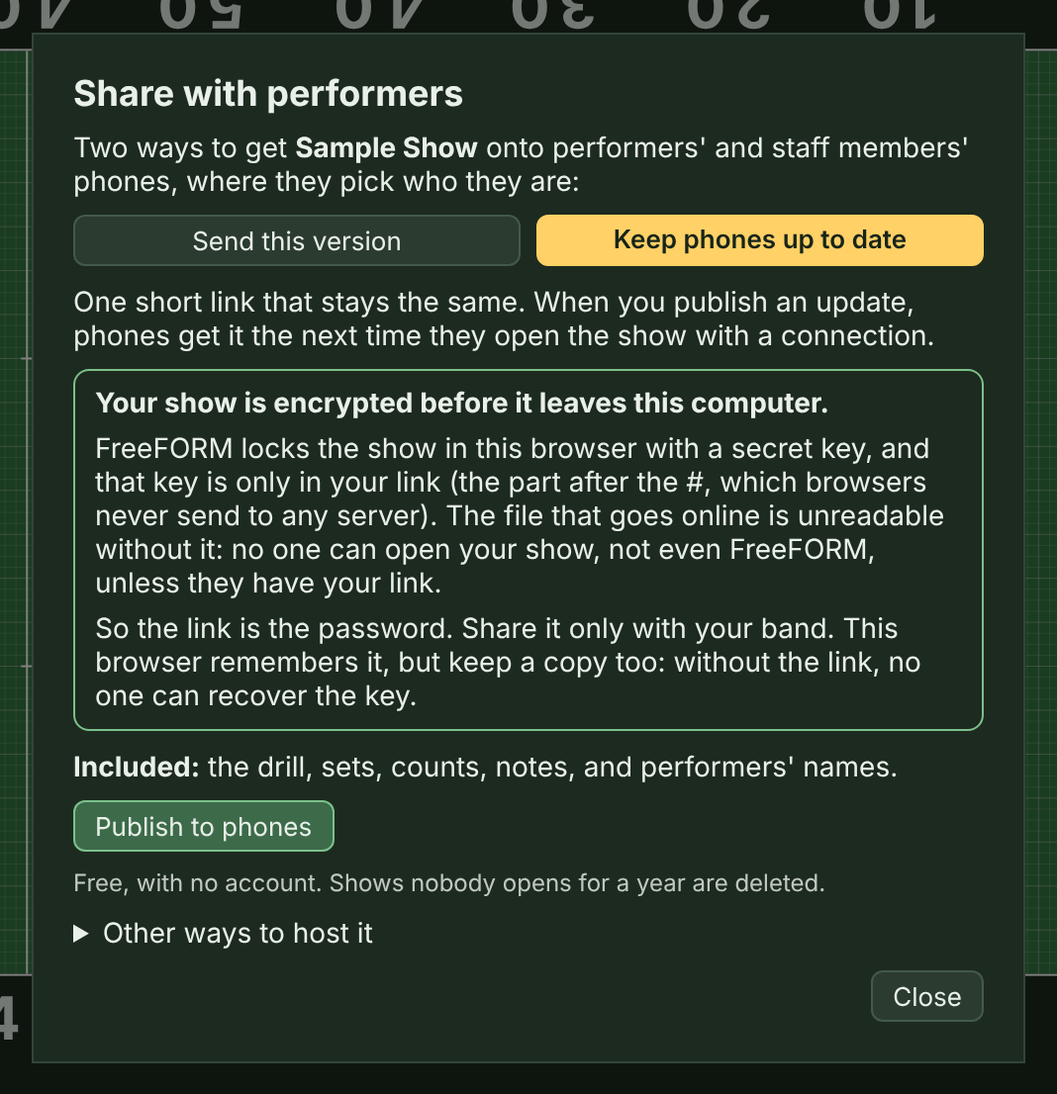
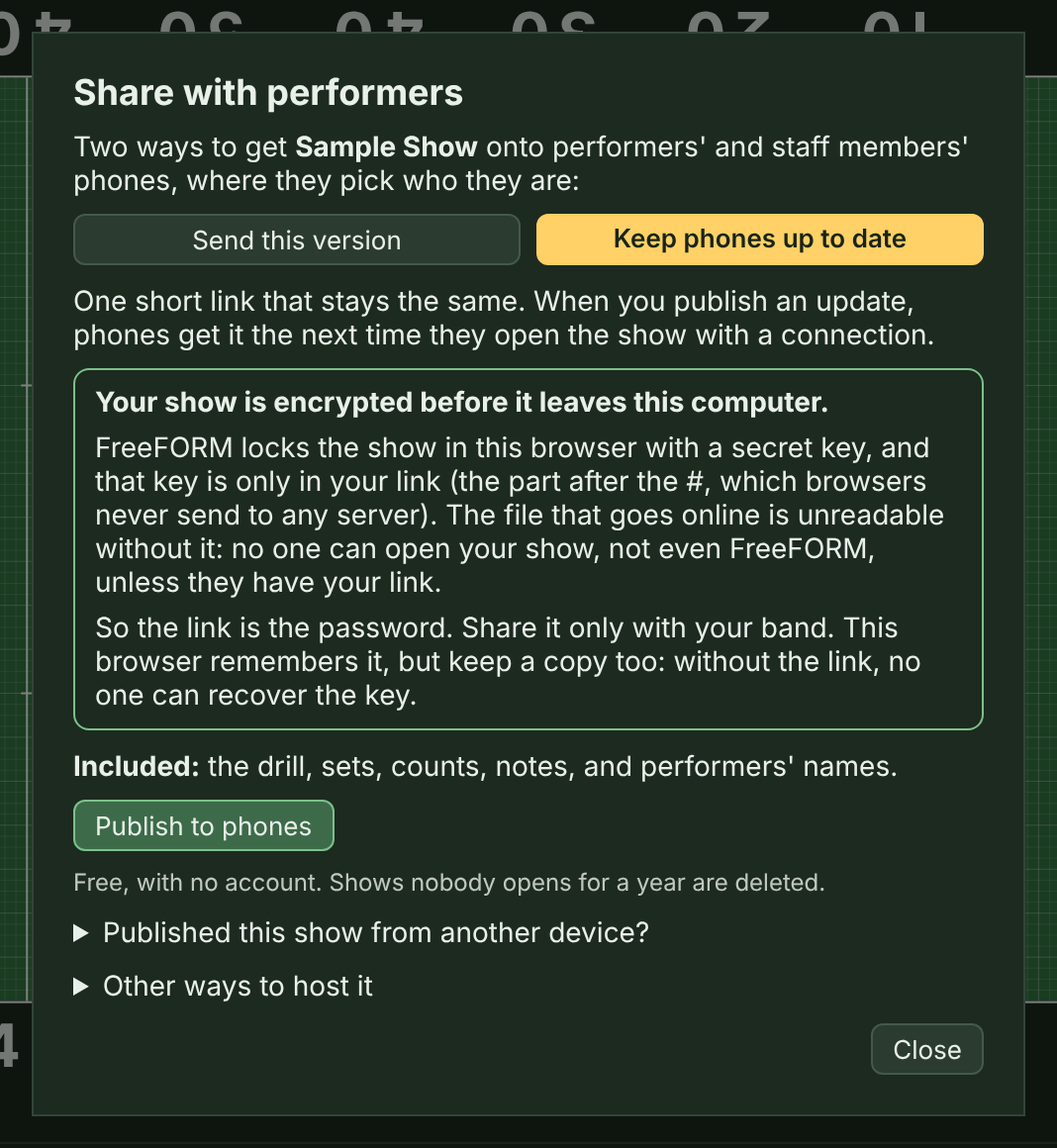
Recovery codes carry their own steps; open one from a blank field
The copied code is now a short message with the steps above it, and
"Email it to yourself" sends it, so a director weeks later knows what
to do. The blank field's start note gets an "Open from a link or
recovery code…" button (Jason's wording), and the publishing code is
called a recovery code everywhere a person sees it. Old codes still work.

Claude-Session: https://claude.ai/code/session_012ak5ZVHEpD9G47FepvLhFK

diff --git a/src/perform/ShareDialog.tsx b/src/perform/ShareDialog.tsx
@@ -6,7 +6,7 @@ import { synced } from '../engine/music';
 import { getAudio } from '../ui/audioStore';
 import { useDialog } from '../ui/useDialog';
 import { checkRepo, fileNameFor, publishFile, REPO_RE, type GitHubTarget } from '../engine/github';
-import { cloudUrl, publishCloud, publishingCode, readPublishingCode, unpublishCloud, type CloudShow } from '../engine/cloud';
+import { cloudUrl, publishCloud, publishingMessage, readPublishingCode, unpublishCloud, type CloudShow } from '../engine/cloud';
 import { getPublishing, loadCloud, loadLinks, saveCloud, saveLink, setPublishing } from '../ui/publishing';
 
 // The director's GitHub repository and token for one-click publishing, kept only in this browser.
@@ -104,15 +104,16 @@ export function ShareDialog({ show, onClose, setRevision }: { show: Show; onClos
         : `Published revision ${s.revision}, ${at}. Phones that already have the show get this version the next time they open it (within a minute or so).`);
     } catch (e) { setBusy(`✗ ${e instanceof Error ? e.message : String(e)}`); }
   };
-  // Moving to another device: the publishing code carries the link and the edit token (Full backup carries them too).
+  // Moving to another device: the recovery code carries the link and the edit token (Full backup carries them too).
   const [code, setCode] = useState('');
   const takeCode = () => {
     const p = readPublishingCode(code);
-    if (!p) { setBusy("✗ That isn't a FreeFORM publishing code. Copy the whole code from the other device."); return; }
+    if (!p) { setBusy("✗ That isn't a FreeFORM recovery code. Copy the whole code from the other device."); return; }
     if (p.show?.id && p.show.id !== show.id && !confirm(`This code is for "${p.show.title || 'another show'}", and the show open here is "${show.title}". Publishing here would replace that show on phones with this one. Use it anyway?`)) return;
     setPublishing(sid, p); setCloud(p.cloud ?? null); setField(p.link); setMadeKey(null); saveKey(null); setCode('');
     setBusy(p.cloud ? 'Done: this browser can now update that link. Click Publish update after your edits.' : 'Done: this browser has the link. To update it, publish the file where it was hosted before.');
   };
+  const codeMessage = onService && cloud && hosted ? publishingMessage(getPublishing(sid, show.title) ?? { link: hosted, cloud }, show.title) : '';
   const stopSharing = async () => {
     if (!cloud || !confirm('Take this show off FreeFORM’s service? The link stops working. Phones that already have the show keep the copy they have, but get no more updates.')) return;
     setBusy('Taking it offline…');
@@ -200,22 +201,26 @@ export function ShareDialog({ show, onClose, setRevision }: { show: Show; onClos
             <details style={{ margin: '10px 0 0' }}>
               <summary>Use on another device</summary>
               <p style={small}>
-                Got a new computer or iPad? This code lets it keep updating this same link, so students don't need a new one. Copy it
-                (email it to yourself, say), then on the new device open this show from a Full backup or with <strong>Shows… → Open from a link</strong>, and
-                paste the code there. <strong>Keep it private:</strong> like the link, it's a password, and it can also change the show.
-                A <strong>Full backup</strong> file carries it too.
+                Got a new computer or iPad? This code lets it keep updating this same link, so students don't need a new one. Email it to
+                yourself, or copy it somewhere safe: the instructions travel with it. On the new device, click <strong>Open from a link or recovery code…</strong>
+                (on a blank field, or under <strong>Shows…</strong>) and paste the whole message. <strong>Keep it private:</strong> like the link, it's a
+                password, and it can also change the show. A <strong>Full backup</strong> file carries it too.
               </p>
-              <textarea aria-label="Publishing code" readOnly rows={3} value={publishingCode(getPublishing(sid, show.title) ?? { link: hosted, cloud })} onFocus={(e) => e.currentTarget.select()}
+              <textarea aria-label="Recovery code" readOnly rows={5} value={codeMessage} onFocus={(e) => e.currentTarget.select()}
                 style={{ width: '100%', boxSizing: 'border-box', font: 'inherit', fontSize: 11 }} />
-              <div style={{ display: 'flex', justifyContent: 'flex-end' }}><button onClick={() => copy(publishingCode(getPublishing(sid, show.title) ?? { link: hosted, cloud }))}>Copy publishing code</button></div>
+              <div style={{ display: 'flex', justifyContent: 'flex-end', gap: 8, flexWrap: 'wrap' }}>
+                <a className="button-link" href={`mailto:?subject=${encodeURIComponent(`FreeFORM recovery code: ${show.title || 'Untitled show'}`)}&body=${encodeURIComponent(codeMessage)}`}
+                  style={{ color: 'var(--blue)', alignSelf: 'center' }}>Email it to yourself</a>
+                <button onClick={() => copy(codeMessage)}>Copy recovery code</button>
+              </div>
             </details>
           )}
           {!onService && (
             <details style={{ margin: '10px 0 0' }}>
               <summary>Published this show from another device?</summary>
-              <p style={small}>Paste the publishing code from that device (under <strong>Use on another device</strong> there), and this browser can update the same link.</p>
+              <p style={small}>Paste the recovery code from that device (under <strong>Use on another device</strong> there), and this browser can update the same link.</p>
               <div style={{ display: 'flex', gap: 6 }}>
-                <input aria-label="Paste a publishing code" placeholder="FREEFORM-PUBLISHING-1.…" value={code} onChange={(e) => setCode(e.target.value)} style={{ flex: 1, font: 'inherit', fontSize: 12 }} />
+                <input aria-label="Paste a recovery code" placeholder="FREEFORM-PUBLISHING-1.…" value={code} onChange={(e) => setCode(e.target.value)} style={{ flex: 1, font: 'inherit', fontSize: 12 }} />
                 <button disabled={!code.trim()} onClick={takeCode}>Use code</button>
               </div>
             </details>

diff --git a/src/App.tsx b/src/App.tsx
@@ -813,18 +813,18 @@ export function App() {
   const trySample = async () => { await flush(); openShow({ ...sampleShow(), id: newShowId() }); setTool('select'); }; // in the main bundle: the offline cache only keeps files the page links
   // The front page's "Try the sample show" opens app/?sample.
   useEffect(() => { if (new URLSearchParams(location.search).has('sample')) { history.replaceState(null, '', location.pathname + location.hash); trySample(); } }, []); // eslint-disable-line react-hooks/exhaustive-deps
-  const [library, setLibrary] = useState(false);
+  const [library, setLibrary] = useState<boolean | 'link'>(false); // 'link': opened on Open from a link
   const [video, setVideo] = useState(false); // the Make a video dialog
   const [feedback, setFeedback] = useState(false); // the Send feedback form
   const act: ShowActions = {
     flush,
     fresh: () => fresh().then(() => setLibrary(false)),
     open: async (id) => { const s = await loadShow(id); await flush(); openShow(s); setLibrary(false); },
-    // Open a show from a phone link or a publishing code: recovers the drill (the link holds the key that unlocks it), and
-    // with a publishing code, keeps updating the same link from here.
+    // Open a show from a phone link or a recovery code: recovers the drill (the link holds the key that unlocks it), and
+    // with a recovery code, keeps updating the same link from here.
     openLink: async (text) => {
       const code = readPublishingCode(text), hash = code ? code.link.slice(code.link.indexOf('#')) : linkHash(text);
-      if (!hash) throw new Error("That isn't a FreeFORM link or publishing code. Paste the whole link students open, or the publishing code.");
+      if (!hash) throw new Error("That isn't a FreeFORM link or recovery code. Paste the whole link students open, or the recovery code.");
       const got = hash.startsWith(SHARE_PREFIX) ? { show: await decodeShow(hash.slice(SHARE_PREFIX.length)), audio: undefined } : await fetchHosted(hash);
       let s = got.show;
       await flush();
@@ -835,7 +835,7 @@ export function App() {
       openShow(s); setLibrary(false);
       setNotice({ t: 0, text: code ? `Opened "${s.title}". This browser can keep updating the same link: Share…, then Publish update.`
         : hash.startsWith(SHARE_PREFIX) ? `Opened "${s.title}" from a share link. Performers' names aren't in share links, so add them again in Roster.`
-        : `Opened "${s.title}". To keep updating the same link from here, paste the publishing code from the device that published it (Share…, Keep phones up to date). Publishing without it makes a new link.` }); // over the field, where the show just opened
+        : `Opened "${s.title}". To keep updating the same link from here, paste the recovery code from the device that published it (Share…, Keep phones up to date). Publishing without it makes a new link.` }); // over the field, where the show just opened
     },
     rename: async (id, title) => {
       if (id === show.id) { setShow((s) => ({ ...s, title })); await keepShow({ ...show, title }); }
@@ -941,10 +941,11 @@ export function App() {
         />
         {show.performers.length === 0 && !otherTab && (
           <div className="backup-note" role="group" aria-label="Start a show">
-            <span><strong>Start your show.</strong> Place performers on the field, bring in a roster from Excel, or look around a finished sample first.</span>
+            <span><strong>Start your show.</strong> Place performers on the field, bring in a roster from Excel, or look around a finished sample first. On a new computer? Open your show from its phone link or recovery code.</span>
             <button className="primary" onClick={() => { setTool('add'); setOpenAdd((n) => n + 1); }}>Place performers</button>
             <button onClick={() => setRoster(true)}>Import a roster…</button>
             <button onClick={trySample}>Try the sample show</button>
+            <button onClick={() => setLibrary('link')} title="Open a show from the link students use, or from a recovery code from your other computer">Open from a link or recovery code…</button>
           </div>
         )}
         {otherTab && (
@@ -1002,7 +1003,7 @@ export function App() {
       </div>
       {sharing && <ShareDialog show={show} onClose={() => setSharing(false)} setRevision={(n) => setShow((s) => ({ ...s, revision: n }))} />}
       {roster && <RosterImport show={show} setShow={setShow} onClose={() => setRoster(false)} />}
-      {library && <ShowsDialog show={show} act={act} onClose={() => setLibrary(false)} />}
+      {library && <ShowsDialog show={show} act={act} linkFirst={library === 'link'} onClose={() => setLibrary(false)} />}
       {feedback && <FeedbackDialog onClose={() => setFeedback(false)} />}
       {video && <VideoDialog show={show} bpm={bpm} onClose={() => setVideo(false)} />}
       {printing && <PrintDialog show={show} selected={selected} onClose={() => setPrinting(false)} />}

diff --git a/src/ui/Shows.tsx b/src/ui/Shows.tsx
@@ -7,7 +7,7 @@ import { listShows, listVersions, type Entry, type Listed } from './showStore';
 /** What the dialog asks the editor to do; each returns once it's done, so the list can be read again. */
 export interface ShowActions {
   open: (id: string) => Promise<void>;
-  openLink: (text: string) => Promise<void>; // a phone link or a publishing code
+  openLink: (text: string) => Promise<void>; // a phone link or a recovery code
   fresh: () => Promise<void>;
   rename: (id: string, title: string) => Promise<void>;
   duplicate: (id: string) => Promise<void>;
@@ -21,11 +21,11 @@ const size = (e: { performers: number; sets: number }) => `${e.performers} perfo
 const rowStyle: React.CSSProperties = { display: 'flex', gap: 8, alignItems: 'center', padding: '8px 0', borderTop: '1px solid var(--line)' };
 
 /** The shows kept in this browser (open, start, copy, rename, delete) and the open show's earlier versions. */
-export function ShowsDialog({ show, act, onClose }: { show: Show; act: ShowActions; onClose: () => void }) {
+export function ShowsDialog({ show, act, onClose, linkFirst = false }: { show: Show; act: ShowActions; onClose: () => void; linkFirst?: boolean }) {
   const [shows, setShows] = useState<Listed[] | null>(null);
   const [versions, setVersions] = useState<Entry[] | null>(null); // the versions view, when open
   const [error, setError] = useState('');
-  const [link, setLink] = useState<string | null>(null); // Open from a link: the box's text, while it's open
+  const [link, setLink] = useState<string | null>(linkFirst ? '' : null); // Open from a link or recovery code: the box's text, while it's open
   const list = () => listShows().then(setShows, () => { setShows([]); setError("This browser wouldn't read its saved shows (its storage may be turned off)."); });
   // The open show goes into the library first, so the list is current. Only here: right after an action the editor may not have caught up.
   useEffect(() => { act.flush().then(list); }, [show.id]); // eslint-disable-line react-hooks/exhaustive-deps
@@ -59,17 +59,17 @@ export function ShowsDialog({ show, act, onClose }: { show: Show; act: ShowActio
           {link !== null && (
             <div style={{ ...rowStyle, flexWrap: 'wrap' }}>
               <p style={{ margin: 0, fontSize: 13, width: '100%' }}>
-                Paste a link students open (a share link or a <strong>Keep phones up to date</strong> link), or a publishing code from another device.
-                The show opens here as a show of its own. With a publishing code, this browser can keep updating the same link.
+                Paste a link students open (a share link or a <strong>Keep phones up to date</strong> link), or a recovery code from another device.
+                The show opens here as a show of its own. With a recovery code, this browser can keep updating the same link.
               </p>
-              <input aria-label="Link or publishing code" autoFocus value={link} onChange={(e) => setLink(e.target.value)} placeholder="https://freeformdrill.org/app/#load=… or FREEFORM-PUBLISHING-1.…" style={{ flex: 1, minWidth: 200 }} />
+              <input aria-label="Link or recovery code" autoFocus value={link} onChange={(e) => setLink(e.target.value)} placeholder="https://freeformdrill.org/app/#load=… or FREEFORM-PUBLISHING-1.…" style={{ flex: 1, minWidth: 200 }} />
               <button className="primary" disabled={!link.trim()} onClick={() => { setError(''); act.openLink(link).catch((e) => setError(e instanceof Error ? e.message : String(e))); }}>Open</button>
               <button onClick={() => setLink(null)}>Cancel</button>
             </div>
           )}
           <div style={{ display: 'flex', gap: 8, marginTop: 12, flexWrap: 'wrap' }}>
             <button onClick={doing(act.fresh)}>New show</button>
-            <button onClick={() => setLink('')} title="Open a show from a link students use, or from a publishing code (a new computer)">Open from a link…</button>
+            <button onClick={() => setLink('')} title="Open a show from a link students use, or from a recovery code (a new computer)">Open from a link or recovery code…</button>
             <button onClick={showVersions} title="Earlier copies of the open show, kept as you work">Versions of "{show.title || 'Untitled show'}"…</button>
             <span style={{ flex: 1 }} />
             <button className="primary" onClick={onClose}>Close</button>

diff --git a/src/engine/cloud.ts b/src/engine/cloud.ts
@@ -42,7 +42,7 @@ export async function unpublishCloud(c: CloudShow, fetcher: typeof fetch = fetch
 
 /**
  * Everything a browser needs to keep publishing a show to the same link: the link (with its key) and, for a show on
- * FreeFORM's service, its id and edit token. Carried by Full backup files and by a publishing code, so a director who
+ * FreeFORM's service, its id and edit token. Carried by Full backup files and by a recovery code, so a director who
  * moves to a new computer mid-season keeps the link students already have. Like the link, it's a password.
  */
 export interface Publishing { link: string; cloud?: CloudShow; show?: { id?: string; title?: string } }
@@ -63,10 +63,24 @@ export function readPublishing(x: unknown): Publishing | null {
   return { link: p.link, ...(cloud ? { cloud } : {}), ...(show ? { show } : {}) };
 }
 
-/** The publishing code to copy to another device. */
+/** The recovery code to copy to another device. */
 export const publishingCode = (p: Publishing) => PREFIX + b64url(JSON.stringify(p));
 
-/** A pasted publishing code (spaces and line breaks from an email are fine), or null if it isn't one. */
+/**
+ * The code wrapped in its own instructions, for the clipboard or an email: whoever finds it later (weeks later, on a new
+ * device) knows what to do with it. Pasting the whole message works: readPublishingCode finds the code inside.
+ */
+export const publishingMessage = (p: Publishing, title: string) => [
+  `FreeFORM recovery code for "${title || 'Untitled show'}"`,
+  '',
+  'To keep updating the same phone link from a new computer or iPad: open https://freeformdrill.org/app/, click Open from a link or recovery code… (on a blank field, or under Shows…), and paste this whole message. The show opens, and Publish update keeps the link your students already have.',
+  '',
+  'Keep this private: like the show’s link, it’s a password, and it can also change the show on your students’ phones.',
+  '',
+  publishingCode(p),
+].join('\n');
+
+/** A pasted recovery code (spaces and line breaks from an email are fine), or null if it isn't one. */
 export function readPublishingCode(text: string): Publishing | null {
   const m = text.replace(/\s+/g, '').match(/FREEFORM-PUBLISHING-1\.([A-Za-z0-9_-]+)/);
   if (!m) return null;

diff --git a/src/engine/cloud.test.ts b/src/engine/cloud.test.ts
@@ -49,14 +49,17 @@ describe('publishing through FreeFORM’s service', () => {
 });
 
 describe('moving publishing to another device', async () => {
-  const { publishingCode, readPublishingCode, readPublishing } = await import('./cloud');
+  const { publishingCode, publishingMessage, readPublishingCode, readPublishing } = await import('./cloud');
   const id = 'KFyp3kS7Vc6xYFo0dDPrGw', token = 'ju86AYRqJQaALlfmnqkRCIjpvXiY6wRRvO8ui9dzGiQ', key = 'a9JS5tRnpADy2UmXXXXXXXXXXXXXXXXXXXXXXXXXXXX';
   const link = `https://freeformdrill.org/app/#load=${encodeURIComponent(cloudUrl(id))}&key=${key}`;
-  it('round-trips a publishing code, even wrapped by an email program', () => {
+  it('round-trips a recovery code, even wrapped by an email program', () => {
     const p = { link, cloud: { id, token }, show: { id: 'abc', title: 'Ballad' } };
     const code = publishingCode(p);
     expect(code.startsWith('FREEFORM-PUBLISHING-1.')).toBe(true);
     expect(readPublishingCode(`Here it is:\n${code.slice(0, 40)}\n${code.slice(40)}  `)).toEqual(p);
+    const msg = publishingMessage(p, 'Ballad');
+    expect(msg).toContain('Open from a link or recovery code…');
+    expect(readPublishingCode(msg)).toEqual(p); // the whole message pastes in
   });
   it('turns away anything that isn’t one, or a token for a different show', () => {
     expect(readPublishingCode('hello')).toBeNull();

diff --git a/src/ui/publishing.ts b/src/ui/publishing.ts
@@ -1,5 +1,5 @@
 // Where this browser keeps each show's publishing: its hosted link (with the key) and, for a show on FreeFORM's service,
-// the id and edit token. Shared by the Share dialog, Full backup, and Open from a link.
+// the id and edit token. Shared by the Share dialog, Full backup, and Open from a link or recovery code.
 import type { CloudShow, Publishing } from '../engine/cloud';
 
 const LINKS = 'freeform:hosted-links'; // per show id (or title, for a show from before ids)
@@ -20,7 +20,7 @@ export function getPublishing(sid: string, title?: string): Publishing | null {
   return { link, ...(cloud ? { cloud } : {}), show: { id: sid, title } };
 }
 
-/** Take on publishing brought from another device (a Full backup or a publishing code). */
+/** Take on publishing brought from another device (a Full backup or a recovery code). */
 export function setPublishing(sid: string, p: Publishing) {
   saveLink(sid, p.link);
   saveCloud(sid, p.cloud ?? null);

diff --git a/docs/HOW-TO.md b/docs/HOW-TO.md
@@ -60,7 +60,7 @@ From top to bottom:
 
 Click **New** in the sidebar to start a show. The show you had open stays in this browser: **Shows…** opens it again (see [Several shows: Opener, Ballad, Closer](#saving-backing-up-and-opening-files)).
 
-When the field has no performers, a note over it offers three ways to begin: **Place performers** opens the **Add** menu so you can pick a section and start clicking, **Import a roster…** brings in a list from Excel (see **Names** under [Add performers](#add-performers)), and **Try the sample show** opens a finished 47-performer show to look around in first. **Help** (in the top bar), then **Try the sample show**, opens the same show any time. It opens as a show of its own, so yours stays under **Shows…**.
+When the field has no performers, a note over it offers four ways to begin: **Place performers** opens the **Add** menu so you can pick a section and start clicking, **Import a roster…** brings in a list from Excel (see **Names** under [Add performers](#add-performers)), **Try the sample show** opens a finished 47-performer show to look around in first, and **Open from a link or recovery code…** brings in a show you published from another computer (see [A new computer or iPad mid-season](#send-the-show-to-your-performers)). **Help** (in the top bar), then **Try the sample show**, opens the same show any time. It opens as a show of its own, so yours stays under **Shows…**.
 
 ![The note on a blank field](img/start.png)
 
@@ -434,9 +434,9 @@ FreeFORM's service keeps published shows for free. A show nobody has opened or u
 **A new computer or iPad mid-season.** Only the browser that published a show can update it: the link alone can't, or any student could change the drill. To keep updating the same link from a new device, bring the show's publishing with you, either way:
 
 - **Full backup…** carries it (along with the recording and tracing picture). **Import…** the file on the new device, and **Publish update** keeps the same link.
-- **Use on another device**, under the link in the Share dialog, shows a **publishing code**. Copy it (email it to yourself), then on the new device open the show with **Shows… → Open from a link…** and paste the code, or paste it under **Published this show from another device?** in the Share dialog. **Keep the code private:** like the link, it's a password, and it can also change the show.
+- **Use on another device**, under the link in the Share dialog, shows a **recovery code**, with the steps to use it written right above it. Click **Email it to yourself** (or **Copy recovery code** and keep it somewhere safe), so the steps travel with the code. On the new device, click **Open from a link or recovery code…** on the blank field (or **Shows… → Open from a link or recovery code…**) and paste the whole message. You can also paste it under **Published this show from another device?** in the Share dialog. **Keep the code private:** like the link, it's a password, and it can also change the show.
 
-If the old device is gone and you have no file, the drill isn't lost: paste the link students use into **Shows… → Open from a link…**, and the whole show comes back, names and music included. (The link holds the key that unlocks it.) Without the publishing code, though, publishing from there makes a new link.
+If the old device is gone and you have no file, the drill isn't lost: paste the link students use into **Shows… → Open from a link or recovery code…**, and the whole show comes back, names and music included. (The link holds the key that unlocks it.) Without the recovery code, though, publishing from there makes a new link.
 
 **Other ways to host it**, at the bottom of the dialog, are for directors who'd rather keep the file themselves. It's the same locked file either way:
 
@@ -500,7 +500,7 @@ With a keyboard attached, the [keyboard shortcuts](#keyboard-shortcuts) work too
 ## Saving, backing up, and opening files
 
 - **Autosave**: every change is saved in your browser right away.
-- **Several shows: Opener, Ballad, Closer.** Every show you start, import, or open from the sample is kept in this browser. **Shows…** (first of the sidebar's file buttons) lists them, newest change first. **Open** switches to one (the show you had open is saved first). **Open from a link…** brings in a show from a link students use, or from a publishing code (see [Send the show to your performers](#send-the-show-to-your-performers)). **Rename…** changes a show's title, **Duplicate** makes a copy to try something new (with its own copy of the recording and tracing picture), and **Delete** removes a show from this browser after asking. Delete can't be undone, so save a file first if you might want the show again. **New show** starts a blank one. Each show keeps its own recording and tracing picture. Undo works within one show: opening another starts its Undo fresh.
+- **Several shows: Opener, Ballad, Closer.** Every show you start, import, or open from the sample is kept in this browser. **Shows…** (first of the sidebar's file buttons) lists them, newest change first. **Open** switches to one (the show you had open is saved first). **Open from a link or recovery code…** brings in a show from a link students use, or from a recovery code (see [Send the show to your performers](#send-the-show-to-your-performers)). **Rename…** changes a show's title, **Duplicate** makes a copy to try something new (with its own copy of the recording and tracing picture), and **Delete** removes a show from this browser after asking. Delete can't be undone, so save a file first if you might want the show again. **New show** starts a blank one. Each show keeps its own recording and tracing picture. Undo works within one show: opening another starts its Undo fresh.
 
   ![The Shows list with three shows](img/shows.png)
 - **Earlier versions.** While you work, FreeFORM keeps a copy of each show at most every 10 minutes: the last 20, plus the last one of each day for 60 days. In **Shows…**, click **Versions of "…"** to see the open show's versions, with when each was kept and how many performers and sets it had. **Restore** puts one in the editor. Undo takes it back, and the show as it was is kept as a version too, so nothing is lost.
@@ -551,7 +551,7 @@ Arrows move the selection the way it looks on screen: ↑ is toward the back sid
 
 ## If something goes wrong
 
-**My show is gone.** First look in **Shows…**: another show may be open. Make sure you're in the same browser on the same computer you used before. The autosave doesn't follow you to other browsers or devices. If you saved the show to a file, use **Import…** to open it. If you published it to phones, **Shows… → Open from a link…** brings it back from the link students use.
+**My show is gone.** First look in **Shows…**: another show may be open. Make sure you're in the same browser on the same computer you used before. The autosave doesn't follow you to other browsers or devices. If you saved the show to a file, use **Import…** to open it. If you published it to phones, **Shows… → Open from a link or recovery code…** brings it back from the link students use.
 
 **I made a mistake.** Undo (⌘Z or Ctrl+Z) works for every edit, including deleting performers. For something older than Undo reaches, try **Shows…**, then **Versions of "…"**.
 

diff --git a/PLAN.md b/PLAN.md
@@ -94,7 +94,7 @@ Claude went through the docs, ran the tests, and clicked through the editor and 
 
 ### Dot sheets and sharing
 - ✅ Dot sheets with a small field picture for each set (**1 per page, with a small field picture for each set**): the whole field, everyone faint, the performer as a big black dot; 12 sets a page.
-- ✅ **Publish to phones** through FreeFORM's own service (2026-11-10): one click in Share, no account or GitHub token. The show is encrypted in the browser and the key is only in the link, and the dialog, the guide, and the front page all say so plainly (Jason). Stored in Workers KV (Jason chose it over R2: no card needed; 1 GB in all, 24 MB a show), with the guardrails Jason wanted: only locked show files (checked by shape), size and per-minute limits, an edit token per show, **Stop sharing**, and a daily cleanup of shows unused for a year. GitHub and self-hosting are still there under **Other ways to host it**. A new device mid-season keeps the same link (Jason asked): Full backup carries the show's publishing, a publishing code moves it by hand, and **Shows… → Open from a link…** recovers a whole show from the link students use (or a code). Deployed 2026-11-10 (KV namespace freeform-api-shows; cleanup daily at 07:17 UTC). Follow-up: move to R2 if FreeFORM outgrows 1 GB (a small change).
+- ✅ **Publish to phones** through FreeFORM's own service (2026-11-10): one click in Share, no account or GitHub token. The show is encrypted in the browser and the key is only in the link, and the dialog, the guide, and the front page all say so plainly (Jason). Stored in Workers KV (Jason chose it over R2: no card needed; 1 GB in all, 24 MB a show), with the guardrails Jason wanted: only locked show files (checked by shape), size and per-minute limits, an edit token per show, **Stop sharing**, and a daily cleanup of shows unused for a year. GitHub and self-hosting are still there under **Other ways to host it**. A new device mid-season keeps the same link (Jason asked): Full backup carries the show's publishing, a **recovery code** (copied or emailed with its steps) moves it by hand, and **Open from a link or recovery code…** (on a blank field, or in **Shows…**) recovers a whole show from the link students use (or a code). Deployed 2026-11-10 (KV namespace freeform-api-shows; cleanup daily at 07:17 UTC). Follow-up: move to R2 if FreeFORM outgrows 1 GB (a small change).
 - ✅ Video export (2026-11-10, Jason's choices): **Video…** makes an MP4 of the whole field from the press box, with the music when the show has it, the title, the piece, the set, and the count across the top, for any range of sets; made in the browser, faster than real time, with a progress bar. Follow-ups: check the sound on Jason's Mac (AAC there, Opus where the browser can't do AAC); one performer's view as an option.
 - Pyware import for current files. Tested on 2008 to 2010 files only; needs newer sample files from Jason.
 - Spanish (Jason, 2026-11-10: yes, in this order). ✅ Phase 1: the phone's performer view (coordinates, step words, every label) and the front page (freeformdrill.org/es/), following the device's language with an **Español** / **English** switch; strings looked up by their English text in `src/i18n/es.ts`, and a test checks every one has its Spanish. Phase 2: the editor (hundreds of strings). Phase 3: the how-to guide (and its screenshots?). Wordmarks stay as they are: FreeFORM Drill is a name, and the tagline stays English. Needs: a Spanish-speaking director to check the drill terms (asked for on the Spanish front page).

diff --git a/README.md b/README.md
@@ -55,7 +55,7 @@ A note on where the ideas came from: FreeFORM is modeled on Pyware and the Ultim
 - Dot sheets (four cards per page, one per page with a notes column, or one per page with a small field picture for each set, like a dot book) and drill charts (one per set, with or without the paths into it), printed or saved as PDF, for the whole show or a range of sets.
 - A video of the show (MP4, the whole field, with the music and the set and count on screen) for the group chat, staff, or boosters.
 - A Share dialog with two choices: **Send this version** (a link with a QR code; the whole show is in the link, with no server involved) or **Keep phones up to date**. Each says what's included (names, notes, music) before you get a link.
-- **Publish to phones**: one click, no account. The show is encrypted in your browser, and the key is only in the link, so the copy online can't be read without it. The link updates itself on phones, can carry the music, and keeps names private. A new computer mid-season keeps the same link (Full backup, or a publishing code), and a lost show comes back from the link itself. (Or publish to your own GitHub repository, or host the file anywhere.) Each publish gets a revision number that shows on phones and printed sheets.
+- **Publish to phones**: one click, no account. The show is encrypted in your browser, and the key is only in the link, so the copy online can't be read without it. The link updates itself on phones, can carry the music, and keeps names private. A new computer mid-season keeps the same link (Full backup, or a recovery code), and a lost show comes back from the link itself. (Or publish to your own GitHub repository, or host the file anywhere.) Each publish gets a revision number that shows on phones and printed sheets.
 - The phone's performer view and the front page in Spanish (a first draft; the editor is next).
 - A performer view for phones: pick who you are, follow your dot, and see your spot now, your next spot, and the counts to get there, with the step size in plain words ("normal steps, moving back and to your left"). A phone keeps several shows (the Opener, Ballad, and Closer as separate files) and switches between them from a menu. Students can loop a range of sets to practice, with a 4-count count-in if they like. It works offline once it's opened, and it says so plainly if the phone can't save it.
 

diff --git a/DECISIONS.md b/DECISIONS.md
@@ -1470,3 +1470,7 @@ Each entry: timestamp, who decided, context, options considered, decision.
 - **Context:** Only the browser that published a show holds its edit token, so a new device could only publish a new link, and every student would need it.
 - **Other options:** let the link update the show (any student could overwrite the drill: no); accounts.
 - **Decision:** (1) **Full backup** carries the show's publishing (the link with its key, and the service's id and edit token), and **Import…** restores it, so Publish update keeps the same link; a plain **Save** file doesn't, so a show file passed to a co-writer can't overwrite the band's copy. (2) A **publishing code** (`FREEFORM-PUBLISHING-1.` and the same information, checked on the way in) under **Use on another device** in the Share dialog, pasted on the new device in **Shows… → Open from a link…** or in Share; pasting one for a different show asks first, since publishing would replace that show on phones. (3) **Open from a link…** also takes the link students use and brings back the whole show (the link holds the key; names and music included), for a director with no file at all; without the code, publishing from there makes a new link, and FreeFORM says so. The code and full backups are labeled as passwords.
+
+## 2026-11-10: "Recovery code", and a way in from a blank field (Jason can veto)
+- **Context:** Jason moved a show to Safari with the code, but the steps were only on the screen that gave him the code. Weeks later, on a new device, a director wouldn't know where to paste it.
+- **Decision:** (1) The copied code is a short message with the steps written above it, and **Email it to yourself** sends that message, so the steps travel with the code. (2) The blank field's start note gets a fourth button that opens the paste box directly. (3) Jason asked that the button read **Open from a link or recovery code…**; for one name everywhere, the code is now called a **recovery code** in the Share dialog, the copied message, and the guide (the code's own text, `FREEFORM-PUBLISHING-1.`, is unchanged, so codes already copied still work).
